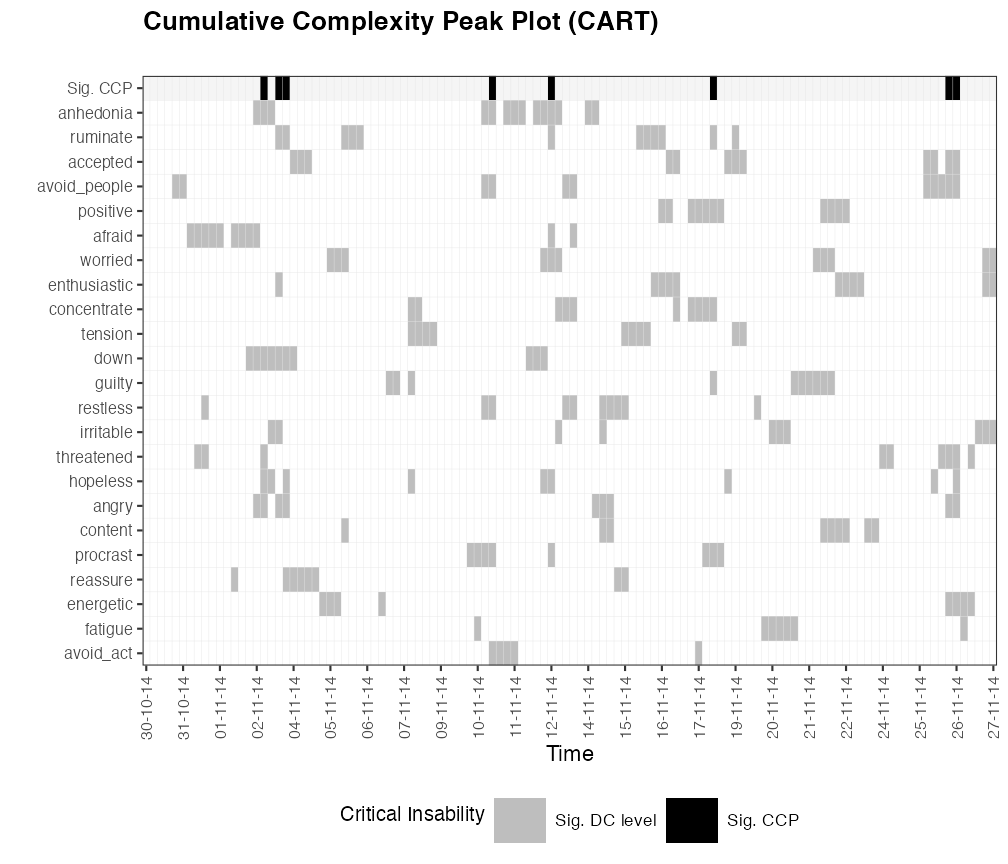
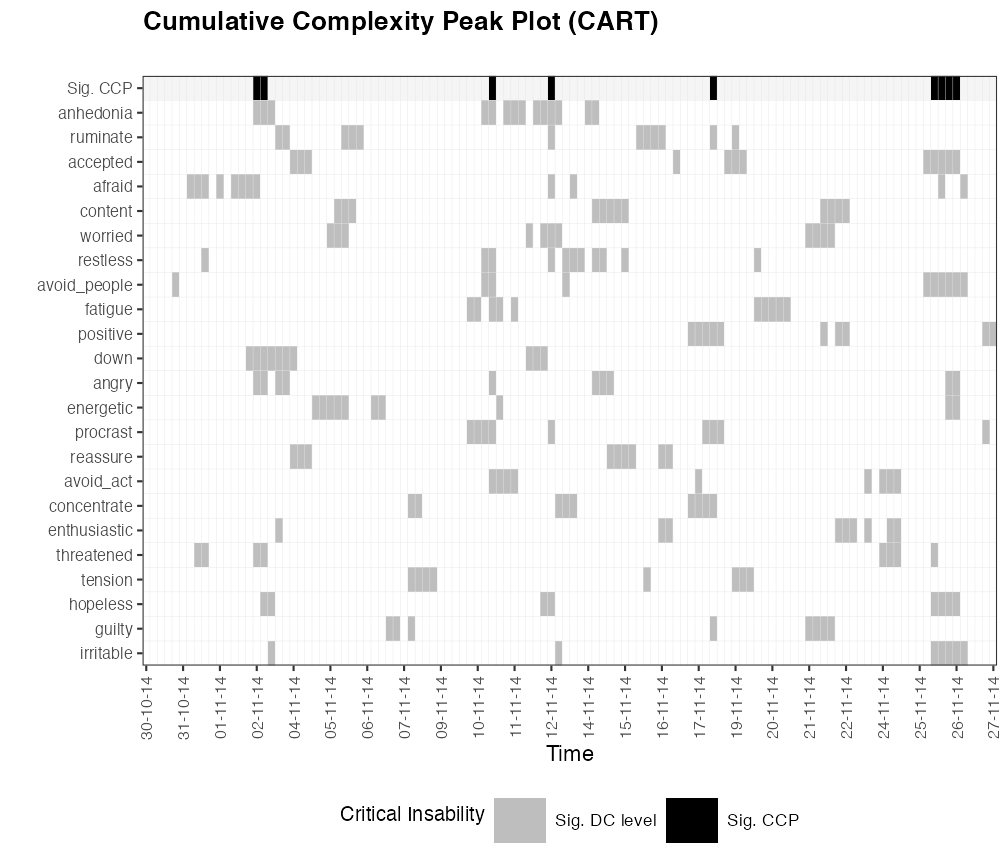
fixed bandreplace issue

diff --git a/docs/articles/RecurrenceNetworks.html b/docs/articles/RecurrenceNetworks.html
@@ -98,7 +98,7 @@
       <h1 data-toc-skip>Recurrence Networks</h1>
                         <h4 class="author">Fred Hasselman</h4>
             
-            <h4 class="date">2021-07-06</h4>
+            <h4 class="date">2021-07-07</h4>
       
       <small class="dont-index">Source: <a href="https://github.com/FredHasselman/casnet/blob/master/vignettes/RecurrenceNetworks.Rmd"><code>vignettes/RecurrenceNetworks.Rmd</code></a></small>
       <div class="hidden name"><code>RecurrenceNetworks.Rmd</code></div>
@@ -192,20 +192,20 @@
 <span id="cb7-6"><a href="#cb7-6" aria-hidden="true" tabindex="-1"></a><span class="er">&gt;</span> </span>
 <span id="cb7-7"><a href="#cb7-7" aria-hidden="true" tabindex="-1"></a><span class="er">&gt;</span> Global Measures</span>
 <span id="cb7-8"><a href="#cb7-8" aria-hidden="true" tabindex="-1"></a><span class="sc">&gt;</span>              Global Max.points.theiler N.points Recurrence.Rate Singular.points</span>
-<span id="cb7-9"><a href="#cb7-9" aria-hidden="true" tabindex="-1"></a><span class="sc">&gt;</span> <span class="dv">1</span> Recurrence Matrix              <span class="dv">14161</span>      <span class="dv">871</span>          <span class="fl">0.0615</span>             <span class="dv">672</span></span>
+<span id="cb7-9"><a href="#cb7-9" aria-hidden="true" tabindex="-1"></a><span class="sc">&gt;</span> <span class="dv">1</span> Recurrence Matrix              <span class="dv">14161</span>      <span class="dv">767</span>          <span class="fl">0.0542</span>             <span class="dv">588</span></span>
 <span id="cb7-10"><a href="#cb7-10" aria-hidden="true" tabindex="-1"></a><span class="sc">&gt;</span>   Divergence Repetitiveness</span>
-<span id="cb7-11"><a href="#cb7-11" aria-hidden="true" tabindex="-1"></a><span class="sc">&gt;</span> <span class="dv">1</span>     <span class="fl">0.0084</span>           <span class="fl">1.58</span></span>
+<span id="cb7-11"><a href="#cb7-11" aria-hidden="true" tabindex="-1"></a><span class="sc">&gt;</span> <span class="dv">1</span>     <span class="fl">0.0084</span>           <span class="fl">1.47</span></span>
 <span id="cb7-12"><a href="#cb7-12" aria-hidden="true" tabindex="-1"></a><span class="sc">&gt;</span> </span>
 <span id="cb7-13"><a href="#cb7-13" aria-hidden="true" tabindex="-1"></a><span class="er">&gt;</span> </span>
 <span id="cb7-14"><a href="#cb7-14" aria-hidden="true" tabindex="-1"></a><span class="er">&gt;</span> Line<span class="sc">-</span>based Measures</span>
 <span id="cb7-15"><a href="#cb7-15" aria-hidden="true" tabindex="-1"></a><span class="sc">&gt;</span>   Line.based N.lines N.points.on.lines      Measure  Rate Mean Max</span>
-<span id="cb7-16"><a href="#cb7-16" aria-hidden="true" tabindex="-1"></a><span class="sc">&gt;</span> <span class="dv">1</span>   Diagonal      <span class="dv">39</span>               <span class="dv">199</span>  Determinism <span class="fl">0.228</span> <span class="fl">5.10</span> <span class="dv">119</span></span>
-<span id="cb7-17"><a href="#cb7-17" aria-hidden="true" tabindex="-1"></a><span class="sc">&gt;</span> <span class="dv">2</span>   Vertical      <span class="dv">72</span>               <span class="dv">157</span> V Laminarity <span class="fl">0.180</span> <span class="fl">2.18</span>   <span class="dv">3</span></span>
-<span id="cb7-18"><a href="#cb7-18" aria-hidden="true" tabindex="-1"></a><span class="sc">&gt;</span> <span class="dv">3</span> Horizontal      <span class="dv">72</span>               <span class="dv">157</span> H Laminarity <span class="fl">0.180</span> <span class="fl">2.18</span>   <span class="dv">3</span></span>
+<span id="cb7-16"><a href="#cb7-16" aria-hidden="true" tabindex="-1"></a><span class="sc">&gt;</span> <span class="dv">1</span>   Diagonal      <span class="dv">31</span>               <span class="dv">179</span>  Determinism <span class="fl">0.233</span> <span class="fl">5.77</span> <span class="dv">119</span></span>
+<span id="cb7-17"><a href="#cb7-17" aria-hidden="true" tabindex="-1"></a><span class="sc">&gt;</span> <span class="dv">2</span>   Vertical      <span class="dv">62</span>               <span class="dv">132</span> V Laminarity <span class="fl">0.172</span> <span class="fl">2.13</span>   <span class="dv">3</span></span>
+<span id="cb7-18"><a href="#cb7-18" aria-hidden="true" tabindex="-1"></a><span class="sc">&gt;</span> <span class="dv">3</span> Horizontal      <span class="dv">62</span>               <span class="dv">132</span> H Laminarity <span class="fl">0.172</span> <span class="fl">2.13</span>   <span class="dv">3</span></span>
 <span id="cb7-19"><a href="#cb7-19" aria-hidden="true" tabindex="-1"></a><span class="sc">&gt;</span>   Entropy.of.lengths Relative.entropy CoV.of.lengths</span>
-<span id="cb7-20"><a href="#cb7-20" aria-hidden="true" tabindex="-1"></a><span class="sc">&gt;</span> <span class="dv">1</span>              <span class="fl">0.447</span>           <span class="fl">0.0936</span>          <span class="fl">3.669</span></span>
-<span id="cb7-21"><a href="#cb7-21" aria-hidden="true" tabindex="-1"></a><span class="sc">&gt;</span> <span class="dv">2</span>              <span class="fl">0.472</span>           <span class="fl">0.0988</span>          <span class="fl">0.178</span></span>
-<span id="cb7-22"><a href="#cb7-22" aria-hidden="true" tabindex="-1"></a><span class="sc">&gt;</span> <span class="dv">3</span>              <span class="fl">0.472</span>           <span class="fl">0.0988</span>          <span class="fl">0.178</span></span>
+<span id="cb7-20"><a href="#cb7-20" aria-hidden="true" tabindex="-1"></a><span class="sc">&gt;</span> <span class="dv">1</span>              <span class="fl">0.143</span>           <span class="fl">0.0298</span>          <span class="fl">3.639</span></span>
+<span id="cb7-21"><a href="#cb7-21" aria-hidden="true" tabindex="-1"></a><span class="sc">&gt;</span> <span class="dv">2</span>              <span class="fl">0.385</span>           <span class="fl">0.0805</span>          <span class="fl">0.159</span></span>
+<span id="cb7-22"><a href="#cb7-22" aria-hidden="true" tabindex="-1"></a><span class="sc">&gt;</span> <span class="dv">3</span>              <span class="fl">0.385</span>           <span class="fl">0.0805</span>          <span class="fl">0.159</span></span>
 <span id="cb7-23"><a href="#cb7-23" aria-hidden="true" tabindex="-1"></a><span class="sc">&gt;</span> </span>
 <span id="cb7-24"><a href="#cb7-24" aria-hidden="true" tabindex="-1"></a><span class="er">&gt;</span> <span class="er">~~~</span>o<span class="sc">~</span><span class="er">~</span>o<span class="sc">~</span><span class="er">~</span>casnet<span class="sc">~</span><span class="er">~</span>o<span class="sc">~</span><span class="er">~</span>o<span class="sc">~</span><span class="er">~~</span></span>
 <span id="cb7-25"><a href="#cb7-25" aria-hidden="true" tabindex="-1"></a></span>
@@ -227,9 +227,9 @@
 <span id="cb8-9"><a href="#cb8-9" aria-hidden="true" tabindex="-1"></a><span class="er">&gt;</span> Global Network Measures</span>
 <span id="cb8-10"><a href="#cb8-10" aria-hidden="true" tabindex="-1"></a><span class="sc">&gt;</span> </span>
 <span id="cb8-11"><a href="#cb8-11" aria-hidden="true" tabindex="-1"></a><span class="er">&gt;</span>   EdgeDensity MeanStrengthDensity GlobalClustering NetworkTransitivity</span>
-<span id="cb8-12"><a href="#cb8-12" aria-hidden="true" tabindex="-1"></a><span class="sc">&gt;</span> <span class="dv">1</span>  <span class="fl">0.05355362</span>                  <span class="cn">NA</span>        <span class="fl">0.5521326</span>           <span class="fl">0.5949066</span></span>
+<span id="cb8-12"><a href="#cb8-12" aria-hidden="true" tabindex="-1"></a><span class="sc">&gt;</span> <span class="dv">1</span>  <span class="fl">0.04614727</span>                  <span class="cn">NA</span>        <span class="fl">0.5243076</span>           <span class="fl">0.6018237</span></span>
 <span id="cb8-13"><a href="#cb8-13" aria-hidden="true" tabindex="-1"></a><span class="sc">&gt;</span>   AveragePathLength GlobalEfficiency</span>
-<span id="cb8-14"><a href="#cb8-14" aria-hidden="true" tabindex="-1"></a><span class="sc">&gt;</span> <span class="dv">1</span>          <span class="fl">71.67797</span>         <span class="fl">6.685997</span></span>
+<span id="cb8-14"><a href="#cb8-14" aria-hidden="true" tabindex="-1"></a><span class="sc">&gt;</span> <span class="dv">1</span>          <span class="fl">83.98932</span>         <span class="fl">8.030948</span></span>
 <span id="cb8-15"><a href="#cb8-15" aria-hidden="true" tabindex="-1"></a><span class="sc">&gt;</span> </span>
 <span id="cb8-16"><a href="#cb8-16" aria-hidden="true" tabindex="-1"></a><span class="er">&gt;</span> <span class="er">~~~</span>o<span class="sc">~</span><span class="er">~</span>o<span class="sc">~</span><span class="er">~</span>casnet<span class="sc">~</span><span class="er">~</span>o<span class="sc">~</span><span class="er">~</span>o<span class="sc">~</span><span class="er">~~</span></span>
 <span id="cb8-17"><a href="#cb8-17" aria-hidden="true" tabindex="-1"></a></span>

diff --git a/docs/reference/est_parameters.html b/docs/reference/est_parameters.html
@@ -252,9 +252,9 @@
     <pre class="examples"><div class='input'>
 <span class='fu'><a href='https://rdrr.io/r/base/Random.html'>set.seed</a></span><span class='op'>(</span><span class='fl'>4321</span><span class='op'>)</span>
 <span class='fu'>est_parameters</span><span class='op'>(</span>y<span class='op'>=</span><span class='fu'><a href='https://rdrr.io/r/stats/Normal.html'>rnorm</a></span><span class='op'>(</span><span class='fl'>500</span><span class='op'>)</span><span class='op'>)</span>
-</div><div class='output co'>#&gt; <span class='message'>Registered S3 method overwritten by 'quantmod':</span>
+</div><div class='output co'>#&gt; <span class='warning'>Warning: argument is not numeric or logical: returning NA</span></div><div class='output co'>#&gt; <span class='warning'>Warning: argument is not numeric or logical: returning NA</span></div><div class='output co'>#&gt; <span class='warning'>Warning: argument is not numeric or logical: returning NA</span></div><div class='output co'>#&gt; <span class='warning'>Warning: argument is not numeric or logical: returning NA</span></div><div class='output co'>#&gt; <span class='warning'>Warning: argument is not numeric or logical: returning NA</span></div><div class='output co'>#&gt; <span class='warning'>Warning: argument is not numeric or logical: returning NA</span></div><div class='output co'>#&gt; <span class='warning'>Warning: argument is not numeric or logical: returning NA</span></div><div class='output co'>#&gt; <span class='warning'>Warning: argument is not numeric or logical: returning NA</span></div><div class='output co'>#&gt; <span class='warning'>Warning: argument is not numeric or logical: returning NA</span></div><div class='output co'>#&gt; <span class='warning'>Warning: argument is not numeric or logical: returning NA</span></div><div class='output co'>#&gt; <span class='message'>Registered S3 method overwritten by 'quantmod':</span>
 #&gt; <span class='message'>  method            from</span>
-#&gt; <span class='message'>  as.zoo.data.frame zoo </span></div><div class='img'><img src='est_parameters-1.png' alt='' width='700' height='433' /></div><div class='input'>
+#&gt; <span class='message'>  as.zoo.data.frame zoo </span></div><div class='output co'>#&gt; <span class='warning'>Warning: argument is not numeric or logical: returning NA</span></div><div class='output co'>#&gt; <span class='warning'>Warning: argument is not numeric or logical: returning NA</span></div><div class='output co'>#&gt; <span class='warning'>Warning: argument is not numeric or logical: returning NA</span></div><div class='output co'>#&gt; <span class='warning'>Warning: argument is not numeric or logical: returning NA</span></div><div class='output co'>#&gt; <span class='warning'>Warning: argument is not numeric or logical: returning NA</span></div><div class='output co'>#&gt; <span class='warning'>Warning: argument is not numeric or logical: returning NA</span></div><div class='output co'>#&gt; <span class='warning'>Warning: argument is not numeric or logical: returning NA</span></div><div class='output co'>#&gt; <span class='warning'>Warning: argument is not numeric or logical: returning NA</span></div><div class='output co'>#&gt; <span class='warning'>Warning: argument is not numeric or logical: returning NA</span></div><div class='output co'>#&gt; <span class='warning'>Warning: argument is not numeric or logical: returning NA</span></div><div class='output co'>#&gt; <span class='warning'>Warning: argument is not numeric or logical: returning NA</span></div><div class='output co'>#&gt; <span class='warning'>Warning: argument is not numeric or logical: returning NA</span></div><div class='output co'>#&gt; <span class='warning'>Warning: argument is not numeric or logical: returning NA</span></div><div class='output co'>#&gt; <span class='warning'>Warning: argument is not numeric or logical: returning NA</span></div><div class='output co'>#&gt; <span class='warning'>Warning: argument is not numeric or logical: returning NA</span></div><div class='output co'>#&gt; <span class='warning'>Warning: argument is not numeric or logical: returning NA</span></div><div class='output co'>#&gt; <span class='warning'>Warning: argument is not numeric or logical: returning NA</span></div><div class='output co'>#&gt; <span class='warning'>Warning: argument is not numeric or logical: returning NA</span></div><div class='output co'>#&gt; <span class='warning'>Warning: argument is not numeric or logical: returning NA</span></div><div class='output co'>#&gt; <span class='warning'>Warning: argument is not numeric or logical: returning NA</span></div><div class='img'><img src='est_parameters-1.png' alt='' width='700' height='433' /></div><div class='input'>
 </div></pre>
   </div>
   <div class="col-md-3 hidden-xs hidden-sm" id="pkgdown-sidebar">

diff --git a/docs/reference/bandReplace.html b/docs/reference/bandReplace.html
@@ -198,29 +198,29 @@
 <span class='va'>m</span> <span class='op'>&lt;-</span> <span class='fu'><a href='https://rdrr.io/pkg/Matrix/man/Matrix.html'>Matrix</a></span><span class='op'>(</span><span class='fu'><a href='https://rdrr.io/r/stats/Normal.html'>rnorm</a></span><span class='op'>(</span><span class='fl'>10</span><span class='op'>)</span>,<span class='fl'>10</span>,<span class='fl'>10</span><span class='op'>)</span>
 
 <span class='fu'>bandReplace</span><span class='op'>(</span><span class='va'>m</span>,<span class='op'>-</span><span class='fl'>1</span>,<span class='fl'>1</span>,<span class='fl'>0</span><span class='op'>)</span>   <span class='co'># Replace diagonal and adjacent bands with 0 (Theiler window of 1)</span>
-</div><div class='output co'>#&gt; 10 x 10 Matrix of class "dgeMatrix"
-#&gt;              [,1]        [,2]        [,3]        [,4]        [,5]        [,6]
-#&gt;  [1,]  0.00000000  0.00000000 -0.91407483 -0.91407483 -0.91407483 -0.91407483
-#&gt;  [2,]  0.00000000  0.00000000  0.00000000  0.46815442  0.46815442  0.46815442
-#&gt;  [3,]  0.36295126  0.00000000  0.00000000  0.00000000  0.36295126  0.36295126
-#&gt;  [4,] -1.30454355 -1.30454355  0.00000000  0.00000000  0.00000000 -1.30454355
-#&gt;  [5,]  0.73777632  0.73777632  0.73777632  0.00000000  0.00000000  0.00000000
-#&gt;  [6,]  1.88850493  1.88850493  1.88850493  1.88850493  0.00000000  0.00000000
-#&gt;  [7,] -0.09744510 -0.09744510 -0.09744510 -0.09744510 -0.09744510  0.00000000
+</div><div class='output co'>#&gt; 10 x 10 sparse Matrix of class "dgCMatrix"
+#&gt;                                                                              
+#&gt;  [1,]  .           .          -0.91407483 -0.91407483 -0.91407483 -0.91407483
+#&gt;  [2,]  .           .           .           0.46815442  0.46815442  0.46815442
+#&gt;  [3,]  0.36295126  .           .           .           0.36295126  0.36295126
+#&gt;  [4,] -1.30454355 -1.30454355  .           .           .          -1.30454355
+#&gt;  [5,]  0.73777632  0.73777632  0.73777632  .           .           .         
+#&gt;  [6,]  1.88850493  1.88850493  1.88850493  1.88850493  .           .         
+#&gt;  [7,] -0.09744510 -0.09744510 -0.09744510 -0.09744510 -0.09744510  .         
 #&gt;  [8,] -0.93584735 -0.93584735 -0.93584735 -0.93584735 -0.93584735 -0.93584735
 #&gt;  [9,] -0.01595031 -0.01595031 -0.01595031 -0.01595031 -0.01595031 -0.01595031
 #&gt; [10,] -0.82678895 -0.82678895 -0.82678895 -0.82678895 -0.82678895 -0.82678895
-#&gt;              [,7]       [,8]       [,9]      [,10]
+#&gt;                                                   
 #&gt;  [1,] -0.91407483 -0.9140748 -0.9140748 -0.9140748
 #&gt;  [2,]  0.46815442  0.4681544  0.4681544  0.4681544
 #&gt;  [3,]  0.36295126  0.3629513  0.3629513  0.3629513
 #&gt;  [4,] -1.30454355 -1.3045435 -1.3045435 -1.3045435
 #&gt;  [5,]  0.73777632  0.7377763  0.7377763  0.7377763
-#&gt;  [6,]  0.00000000  1.8885049  1.8885049  1.8885049
-#&gt;  [7,]  0.00000000  0.0000000 -0.0974451 -0.0974451
-#&gt;  [8,]  0.00000000  0.0000000  0.0000000 -0.9358474
-#&gt;  [9,] -0.01595031  0.0000000  0.0000000  0.0000000
-#&gt; [10,] -0.82678895 -0.8267890  0.0000000  0.0000000</div></pre>
+#&gt;  [6,]  .           1.8885049  1.8885049  1.8885049
+#&gt;  [7,]  .           .         -0.0974451 -0.0974451
+#&gt;  [8,]  .           .          .         -0.9358474
+#&gt;  [9,] -0.01595031  .          .          .        
+#&gt; [10,] -0.82678895 -0.8267890  .          .        </div></pre>
   </div>
   <div class="col-md-3 hidden-xs hidden-sm" id="pkgdown-sidebar">
     <nav id="toc" data-toggle="toc" class="sticky-top">

diff --git a/docs/articles/dynamiccomplexity.html b/docs/articles/dynamiccomplexity.html
@@ -98,7 +98,7 @@
       <h1 data-toc-skip>Applied Synergetics: Dynamic Complexity in a Clinical Case Study</h1>
                         <h4 class="author">Fred Hasselman &amp; Merlijn Olthof</h4>
             
-            <h4 class="date">2021-07-06</h4>
+            <h4 class="date">2021-07-07</h4>
       
       <small class="dont-index">Source: <a href="https://github.com/FredHasselman/casnet/blob/master/vignettes/dynamiccomplexity.Rmd"><code>vignettes/dynamiccomplexity.Rmd</code></a></small>
       <div class="hidden name"><code>dynamiccomplexity.Rmd</code></div>
@@ -325,10 +325,11 @@
 <div class="sourceCode" id="cb15"><pre class="downlit sourceCode r">
 <code class="sourceCode R"><span class="co">#  CART</span>
 <span class="va">dateTimesIMP</span><span class="op">[</span><span class="va">ccp.caseIMP</span><span class="op">$</span><span class="va">sig.peaks</span><span class="op">&gt;</span><span class="fl">0</span><span class="op">]</span></code></pre></div>
-<pre><code>&gt; [1] "2014-11-03 09:54:00 CET" "2014-11-03 17:42:00 CET"
-&gt; [3] "2014-11-03 21:38:00 CET" "2014-11-10 21:05:00 CET"
-&gt; [5] "2014-11-12 21:37:00 CET" "2014-11-18 13:54:00 CET"
-&gt; [7] "2014-11-26 13:12:00 CET" "2014-11-26 17:30:00 CET"</code></pre>
+<pre><code>&gt; [1] "2014-11-02 21:27:00 CET" "2014-11-03 09:54:00 CET"
+&gt; [3] "2014-11-10 21:05:00 CET" "2014-11-12 21:37:00 CET"
+&gt; [5] "2014-11-18 13:54:00 CET" "2014-11-25 21:22:00 CET"
+&gt; [7] "2014-11-26 09:37:00 CET" "2014-11-26 13:12:00 CET"
+&gt; [9] "2014-11-26 17:30:00 CET"</code></pre>
 </div>
 </div>
 <div id="plot-state-versus-complexity" class="section level2">

diff --git a/docs/reference/rn_strengthDist.html b/docs/reference/rn_strengthDist.html
@@ -173,7 +173,7 @@
     <pre class="examples"><div class='input'>
 <span class='va'>y</span>  <span class='op'>&lt;-</span> <span class='fu'><a href='https://rdrr.io/r/stats/Normal.html'>rnorm</a></span><span class='op'>(</span><span class='fl'>100</span><span class='op'>)</span>
 <span class='va'>RN</span> <span class='op'>&lt;-</span> <span class='fu'><a href='rn.html'>rn</a></span><span class='op'>(</span><span class='va'>y</span>, emLag<span class='op'>=</span><span class='fl'>1</span>, emDim<span class='op'>=</span><span class='fl'>3</span>, emRad<span class='op'>=</span><span class='cn'>NA</span>, weighted <span class='op'>=</span> <span class='cn'>TRUE</span>, weightedBy <span class='op'>=</span> <span class='st'>"rt"</span>, returnGraph <span class='op'>=</span> <span class='cn'>TRUE</span><span class='op'>)</span>
-</div><div class='output co'>#&gt; 
+</div><div class='output co'>#&gt; <span class='message'>&lt;sparse&gt;[ &lt;logic&gt; ] : .M.sub.i.logical() maybe inefficient</span></div><div class='output co'>#&gt; 
 #&gt; Searching for a radius that will yield 0.05 for RR </div><div class='output co'>#&gt; <span class='message'></span>
 #&gt; <span class='message'>Converged! Found an appropriate radius...</span></div><div class='input'><span class='fu'>rn_strengthDist</span><span class='op'>(</span><span class='va'>RN</span><span class='op'>$</span><span class='va'>g</span><span class='op'>)</span>
 </div><div class='img'><img src='rn_strengthDist-1.png' alt='' width='700' height='433' /></div><div class='output co'>#&gt;    xDegree yStrength xDegree_log10 yStrength_log10 PowerLaw PowerLawExponent

diff --git a/docs/reference/rn_phases.html b/docs/reference/rn_phases.html
@@ -262,7 +262,7 @@ or with high-frequency, are regions of attraction for the system.</p>
 <span class='fu'><a href='https://rdrr.io/r/utils/data.html'>data</a></span><span class='op'>(</span><span class='st'>"manyAnalystsESM"</span><span class='op'>)</span>
 <span class='va'>df</span> <span class='op'>&lt;-</span> <span class='va'>manyAnalystsESM</span><span class='op'>[</span><span class='fl'>4</span><span class='op'>:</span><span class='fl'>10</span><span class='op'>]</span>
 <span class='va'>RN</span> <span class='op'>&lt;-</span> <span class='fu'><a href='rn.html'>rn</a></span><span class='op'>(</span>y1 <span class='op'>=</span> <span class='va'>df</span>, doEmbed <span class='op'>=</span> <span class='cn'>FALSE</span>, weighted <span class='op'>=</span> <span class='cn'>TRUE</span>, weightedBy <span class='op'>=</span> <span class='st'>"si"</span>, emRad <span class='op'>=</span> <span class='cn'>NA</span><span class='op'>)</span>
-</div><div class='output co'>#&gt; 
+</div><div class='output co'>#&gt; <span class='message'>&lt;sparse&gt;[ &lt;logic&gt; ] : .M.sub.i.logical() maybe inefficient</span></div><div class='output co'>#&gt; 
 #&gt; Searching for a radius that will yield 0.05 for RR </div><div class='output co'>#&gt; <span class='message'></span>
 #&gt; <span class='message'>Converged! Found an appropriate radius...</span></div><div class='input'>
 <span class='co'># This returns 6 phases which have minimally 1 state</span>

diff --git a/docs/reference/rp.html b/docs/reference/rp.html
@@ -156,7 +156,7 @@
   includeDiagonal <span class='op'>=</span> <span class='cn'>NA</span>,
   to.ts <span class='op'>=</span> <span class='cn'>NULL</span>,
   order.by <span class='op'>=</span> <span class='cn'>NULL</span>,
-  to.sparse <span class='op'>=</span> <span class='cn'>FALSE</span>,
+  to.sparse <span class='op'>=</span> <span class='cn'>TRUE</span>,
   weighted <span class='op'>=</span> <span class='cn'>FALSE</span>,
   weightedBy <span class='op'>=</span> <span class='st'>"si"</span>,
   method <span class='op'>=</span> <span class='st'>"Euclidean"</span>,

diff --git a/docs/articles/scalingphenomena.html b/docs/articles/scalingphenomena.html
@@ -98,7 +98,7 @@
       <h1 data-toc-skip>Quantifying Scaling Phenomena in Time Series</h1>
                         <h4 class="author">Fred Hasselman</h4>
             
-            <h4 class="date">2021-07-06</h4>
+            <h4 class="date">2021-07-07</h4>
       
       <small class="dont-index">Source: <a href="https://github.com/FredHasselman/casnet/blob/master/vignettes/scalingphenomena.Rmd"><code>vignettes/scalingphenomena.Rmd</code></a></small>
       <div class="hidden name"><code>scalingphenomena.Rmd</code></div>

diff --git a/docs/articles/CRQA.html b/docs/articles/CRQA.html
@@ -98,7 +98,7 @@
       <h1 data-toc-skip>(Cross-) Recurrence Quantification Analysis</h1>
                         <h4 class="author">Fred Hasselman</h4>
             
-            <h4 class="date">2021-07-06</h4>
+            <h4 class="date">2021-07-07</h4>
       
       <small class="dont-index">Source: <a href="https://github.com/FredHasselman/casnet/blob/master/vignettes/CRQA.Rmd"><code>vignettes/CRQA.Rmd</code></a></small>
       <div class="hidden name"><code>CRQA.Rmd</code></div>

diff --git a/docs/reference/rp_copy_attributes.html b/docs/reference/rp_copy_attributes.html
@@ -171,7 +171,7 @@
 
     <h2 class="hasAnchor" id="value"><a class="anchor" href="#value"></a>Value</h2>
 
-    <p>The target matrix with attributes copied deom the source matrix.</p>
+    <p>The target matrix with attributes copied from the source matrix.</p>
 
   </div>
   <div class="col-md-3 hidden-xs hidden-sm" id="pkgdown-sidebar">
